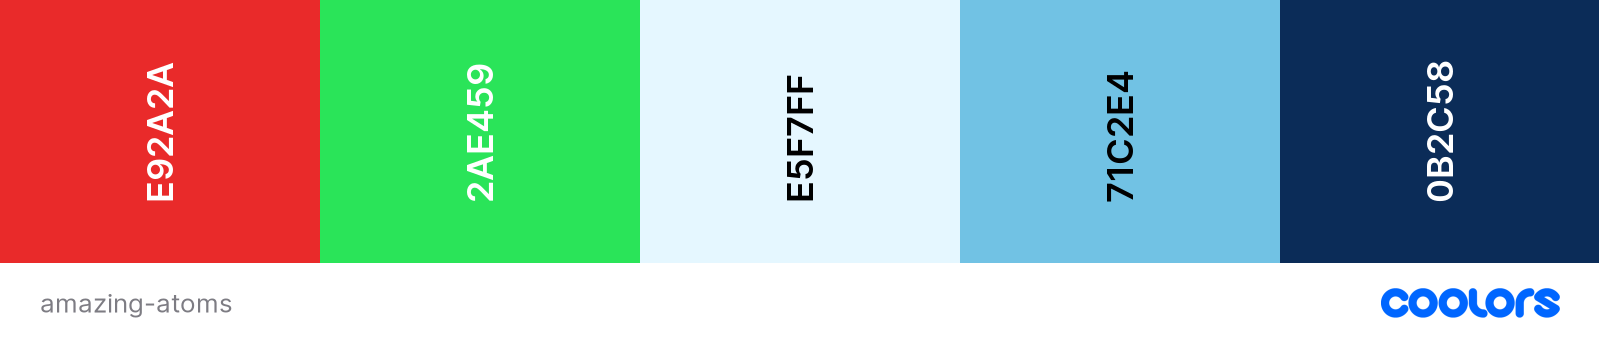
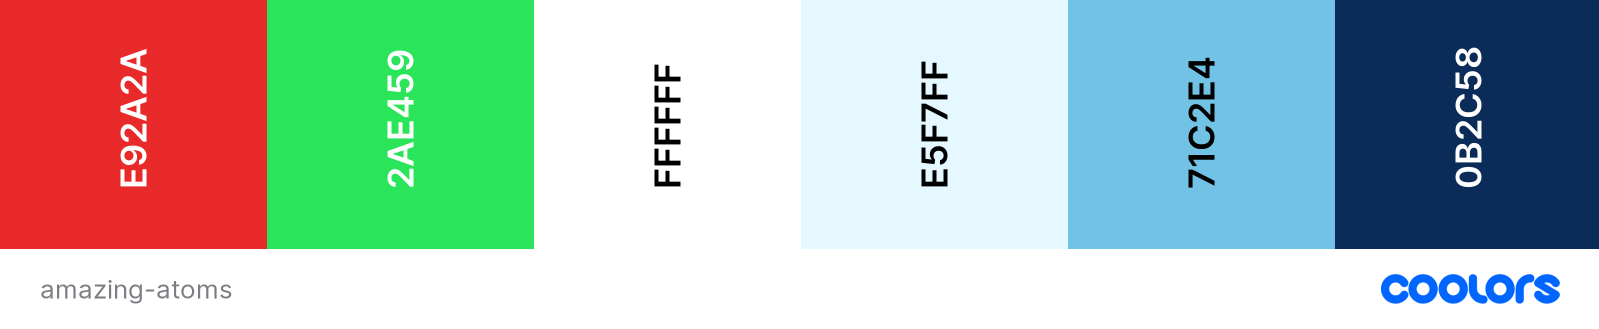
Add typography section to README.md and update colour palette image as there was a colour omitted from the previous image

diff --git a/README.md b/README.md
@@ -22,6 +22,7 @@ As a user,
 * I would like to understand how to play the game
 * I would like clear visual feedback when I submit my answer so that I know whether my answer is correct
 * I would like to know how well I did in the game when finished
+* I would like to be able to reset or restart the game at any point
 
 ### Website Structure
 The website consists of two HTML pages. The main page contains all the contents related to the game and the second page is only used in case of 404 error. 
@@ -61,15 +62,16 @@ Wireframes were generated using [balsamiq](https://balsamiq.com/) to visualise t
 </details>
   
 ### Colour Scheme
-The colour scheme for the website has taken inspiration from the background image of atoms. The light blue E5F7FF is used as the background colour for all the contents and the dark navy 0B2C58 is used for texts so that it contrasts well with the background colour. The dark navy is also used for the buttons and the ligher blue 71C2E4 is used for their hover effects. 
+The colour scheme for the website has taken inspiration from the background image of atoms. The light blue E5F7FF is used as the background colour for all the contents and the dark navy 0B2C58 is used for texts so that it contrasts well with the background colour. The dark navy is also used for the buttons with texts in white FFFFFF and the ligher blue 71C2E4 is used for hover effects on the control buttons. 
 
 Red E92A2A and green 2AE459 are used for the answer buttons to indicate whether the answer selected by the user is correct. 
 
 This colour scheme is consistent throughout the website and intended to provide a clean and scientific feel with the background image of atoms.
 
-<img src="docs/colour-palette.png" width="70%">
+<img src="docs/colour-palette.png" width="80%">
 
 ### Typography
+The font used throughout the website is Ubuntu which is imported from [Google Fonts](https://fonts.google.com/). It is easy to read and suits the image of the website.
 
 ### Features
 
